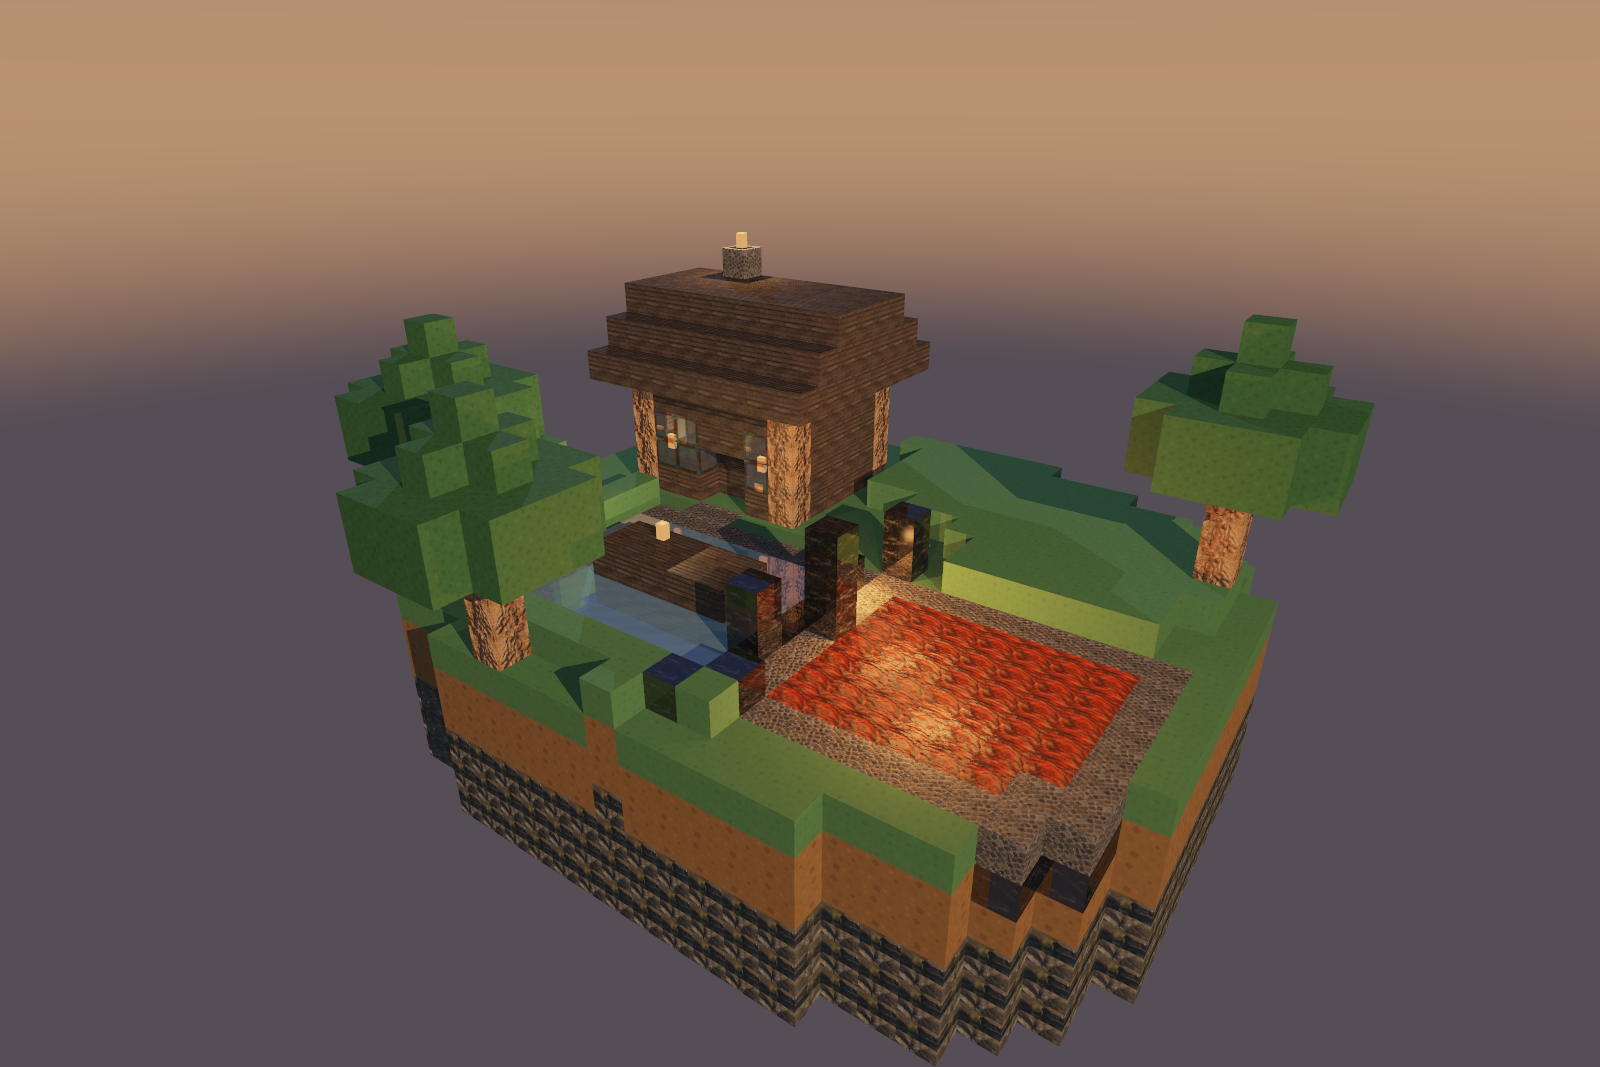
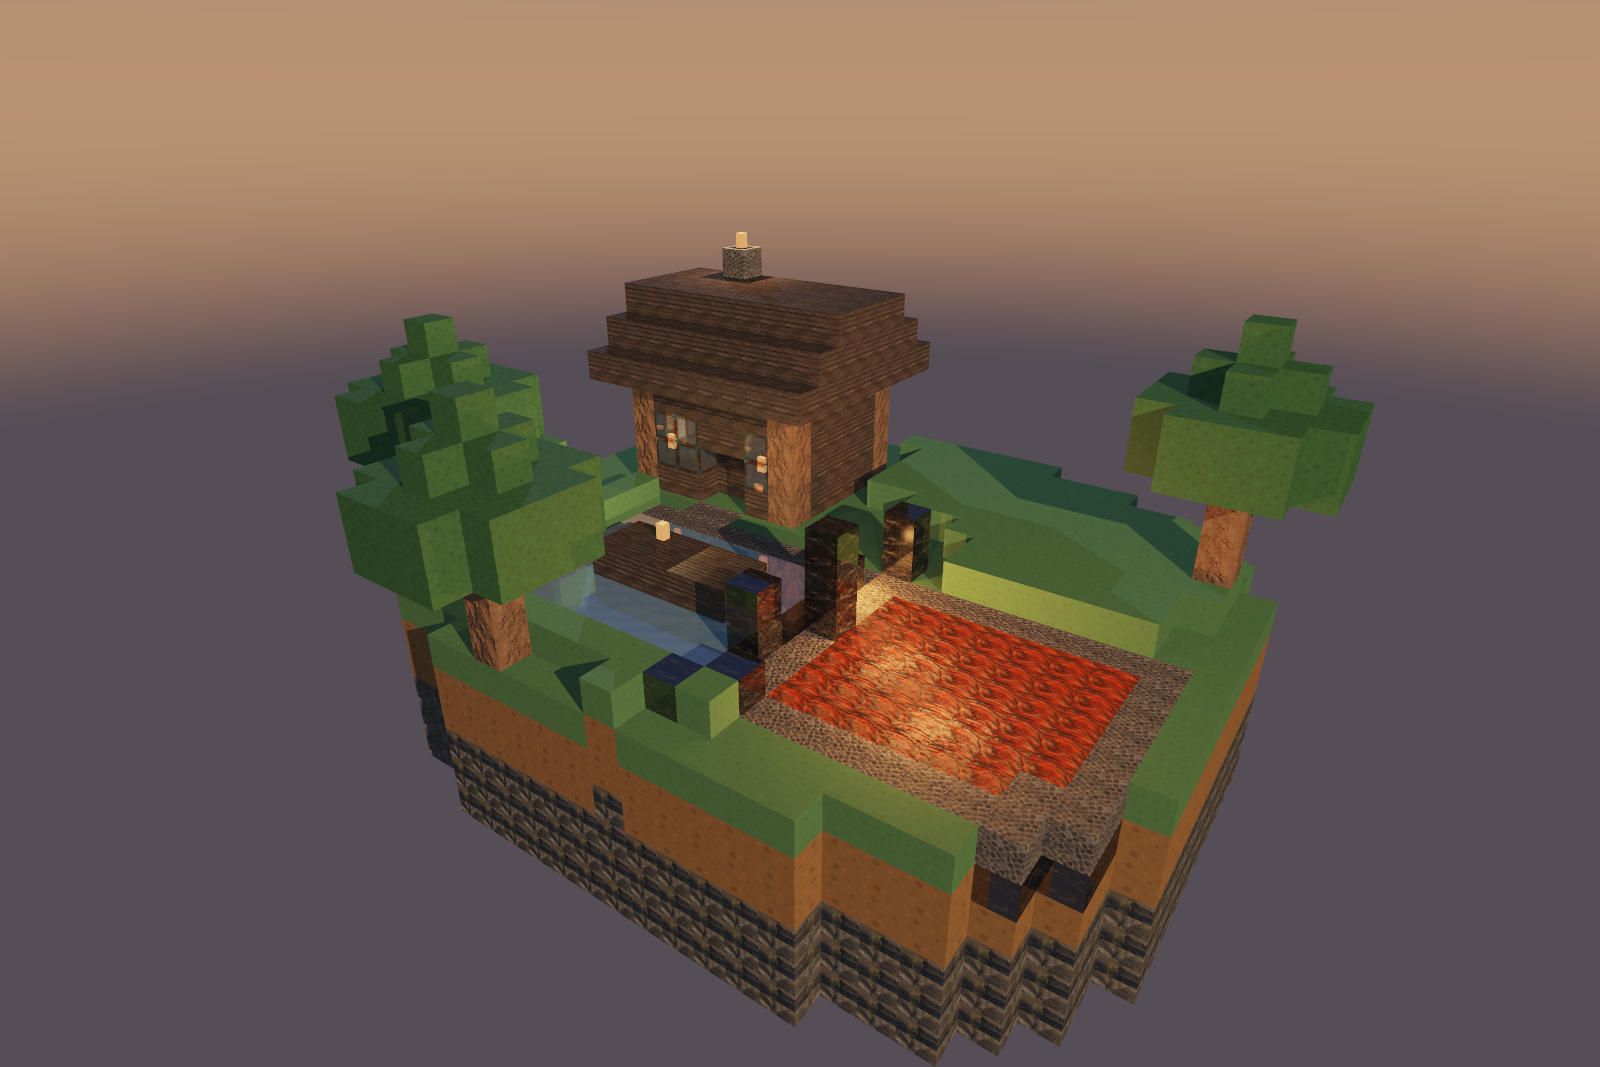
fix: calm down the bark, the noise was the normal map
The trunks still read as scribble next to the smooth grass and the even
planks. Rendering the same frame with and without the log's normal map showed
where it came from: the colour texture was fine, the relief was doing the
damage.

Normal strength becomes per texture. The global 2.6 exists because averaging
pixels down to 32x32 flattens the relief, but bark has fine grained relief
everywhere, so exaggerating it left every texel facing a different way. At 1.1
the bark still has depth without the streaking. Stone drops to 1.8 for the
same reason; cobblestone, planks and lava keep 2.6, where the relief is in
large recognisable shapes and the exaggeration is what makes them legible.

Contrast also becomes adjustable per texture, and the bark crop backs off from
a tenth to 0.14. A photograph of a real surface carries a far wider range of
values than a block wants: the bark had near black cracks over pale wood.

diff --git a/tools/prepare_textures.py b/tools/prepare_textures.py
@@ -44,7 +44,7 @@ AMBIENTCG = {
     # Recorte muy cerrado: Bark006 es corteza de grano fino, no de surcos
     # grandes. A 0.26 la reduccion a 32x32 no dejaba estructura alguna, solo
     # ruido por pixel, y el tronco se veia como una mancha moteada.
-    "log": ("Bark006", 0.10, True),
+    "log": ("Bark006", 0.14, True),
     "obsidian": ("Marble006", 0.30, False),
 }
 
@@ -52,24 +52,32 @@ AMBIENTCG = {
 # corteza clara y grisacea, y un tronco tiene que leerse marron junto a las
 # hojas verdes. El tinte multiplica el color sin tocar la estructura ni el mapa
 # normal, que es lo que interesa conservar.
-# Ajustes de color por textura: (saturacion, tinte).
+# Ajustes de color por textura: (saturacion, contraste, tinte).
 #
 # La saturacion mezcla el pixel con su propio gris: 1.0 lo deja igual, 0.0 lo
 # vuelve blanco y negro. Hace falta porque el verde de Kenney es un verde puro
 # (R=28, G=149) sin nada de tierra, y multiplicarlo solo lo oscurece sin quitarle
-# el aspecto de neon. El tinte se aplica despues, para llevar el resultado hacia
-# el tono que pide la escena.
+# el aspecto de neon.
+#
+# El contraste separa o acerca los pixeles respecto a la media de la textura.
+# Hace falta porque una fotografia de superficie real trae un rango de valores
+# mucho mayor del que pide un bloque: la corteza tenia grietas casi negras sobre
+# madera muy clara y, al lado del pasto liso y los tablones parejos, se leia como
+# un garabato en vez de como madera.
+#
+# El tinte se aplica al final, para llevar el resultado al tono que pide la
+# escena.
 AJUSTES = {
     # La corteza es gris y esta cubierta de liquen naranja. Se desatura para
     # quitar el moteado del liquen y luego se tiñe de marron, que es el color
     # que pide un tronco junto a las hojas verdes.
-    "log": (0.35, (1.50, 1.05, 0.68)),
+    "log": (0.35, 0.50, (1.15, 0.82, 0.55)),
     # Rock064 tiene mucho musgo amarillo verdoso, hasta el punto de que el
     # acantilado no se leia como piedra. Desaturada queda roca gris con
     # manchas mas oscuras.
-    "stone": (0.40, (1.02, 1.00, 0.98)),
-    "grass": (0.55, (1.00, 0.86, 0.66)),
-    "leaves": (0.60, (0.92, 0.84, 0.62)),
+    "stone": (0.40, 0.75, (1.02, 1.00, 0.98)),
+    "grass": (0.55, 1.00, (1.00, 0.86, 0.66)),
+    "leaves": (0.60, 1.00, (0.92, 0.84, 0.62)),
 }
 
 # Nombre destino -> archivo dentro del zip de Kenney.
@@ -89,6 +97,17 @@ KENNEY_ZIP = "kenney_voxel-pack.zip"
 # relieve se aplana casi por completo.
 FUERZA_NORMAL = 2.6
 
+# Algunas superficies necesitan menos. La corteza tiene relieve por todas partes
+# y a grano muy fino: con la fuerza general, cada texel quedaba orientado hacia
+# un lado distinto y el tronco se veia como un garabato de luces y sombras, mucho
+# mas ruidoso que el pasto liso o los tablones parejos que tiene al lado. El
+# adoquin o los tablones, en cambio, tienen relieve en formas grandes y
+# reconocibles, y ahi la exageracion es justo lo que los hace legibles.
+FUERZA_NORMAL_POR_TEXTURA = {
+    "log": 1.1,
+    "stone": 1.8,
+}
+
 
 def recortar_y_reducir(imagen: Image.Image, recorte: float, filtro) -> Image.Image:
     """Toma la fraccion central de la imagen y la reduce a LADO x LADO."""
@@ -102,7 +121,7 @@ def recortar_y_reducir(imagen: Image.Image, recorte: float, filtro) -> Image.Ima
     return recortada.resize((LADO, LADO), filtro)
 
 
-def procesar_normal(imagen: Image.Image, recorte: float) -> Image.Image:
+def procesar_normal(imagen: Image.Image, recorte: float, fuerza: float) -> Image.Image:
     """Reduce un mapa normal conservando el relieve.
 
     Dos cuidados que el color no necesita:
@@ -119,8 +138,8 @@ def procesar_normal(imagen: Image.Image, recorte: float) -> Image.Image:
     # De [0, 255] al rango [-1, 1] en el que vive el vector.
     v = np.asarray(reducida, dtype=np.float32) / 255.0 * 2.0 - 1.0
 
-    v[..., 0] *= FUERZA_NORMAL
-    v[..., 1] *= FUERZA_NORMAL
+    v[..., 0] *= fuerza
+    v[..., 1] *= fuerza
 
     # Renormalizar: sin esto el vector deja de ser unitario y el sombreado
     # saldria mas claro u oscuro de lo que toca.
@@ -131,8 +150,10 @@ def procesar_normal(imagen: Image.Image, recorte: float) -> Image.Image:
     return Image.fromarray(((v + 1.0) * 0.5 * 255.0).astype(np.uint8))
 
 
-def ajustar_color(imagen: Image.Image, saturacion: float, tinte) -> Image.Image:
-    """Desatura hacia el gris y luego multiplica por un tinte."""
+def ajustar_color(
+    imagen: Image.Image, saturacion: float, contraste: float, tinte
+) -> Image.Image:
+    """Desatura, comprime el contraste y aplica un tinte, en ese orden."""
     v = np.asarray(imagen, dtype=np.float32)
 
     # Luminancia percibida: el verde pesa mucho mas que el rojo y el azul
@@ -141,6 +162,12 @@ def ajustar_color(imagen: Image.Image, saturacion: float, tinte) -> Image.Image:
         axis=2, keepdims=True
     )
     v = gris + (v - gris) * saturacion
+
+    # Contraste alrededor de la media de la propia textura, para no desplazar su
+    # brillo general al comprimirla.
+    media = v.mean()
+    v = media + (v - media) * contraste
+
     v *= np.array(tinte, dtype=np.float32)
 
     return Image.fromarray(np.clip(v, 0, 255).astype(np.uint8))
@@ -174,7 +201,8 @@ def main() -> None:
 
         if tiene_normal:
             normal = leer_del_zip(ruta_zip, "_NormalGL.png")
-            procesar_normal(normal, recorte).save(NORMALES / f"{destino}.png")
+            fuerza = FUERZA_NORMAL_POR_TEXTURA.get(destino, FUERZA_NORMAL)
+            procesar_normal(normal, recorte, fuerza).save(NORMALES / f"{destino}.png")
             estado = "color + normal"
 
         print(f"  {destino:12} <- {asset:18} ({estado})")
